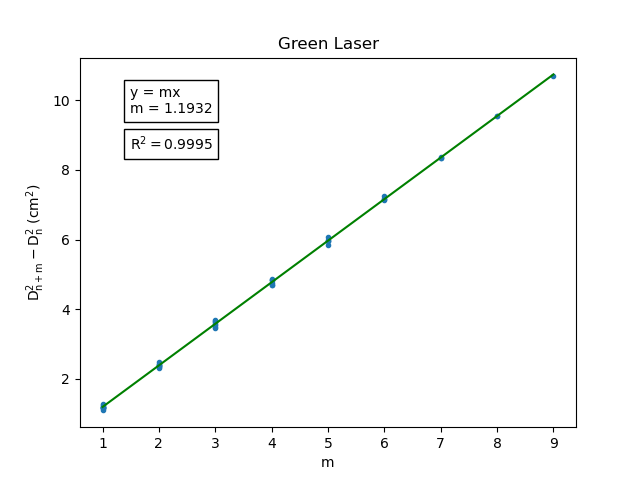
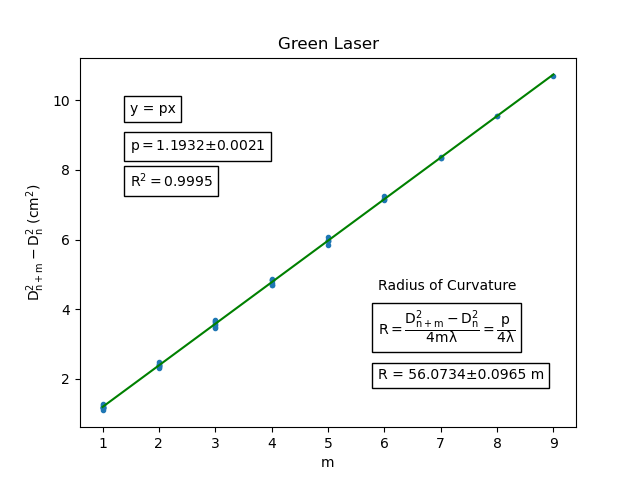
Reform the Green Laser Graph
- Added Error to the parameter
- Added Radius of Curvature

Changed region(s): [[0.5625, 0.5625, 0.875, 0.8125], [0.1875, 0.1562, 0.4375, 0.4375]]

diff --git a/PHY 221/Newton's Rings/NR Green Laser Graph.py b/PHY 221/Newton's Rings/NR Green Laser Graph.py
@@ -1,9 +1,15 @@
 import numpy as np 
 import matplotlib.pyplot as plt 
 from scipy.optimize import curve_fit
+from uncertainties import ufloat
+
+lambda_SL = 589*1E-9        # Sodium Lamp Wavelength
+lambda_GL = 532*1E-9        # Green Laser Wavelength
+
+filename = "Green Laser"
 
 # Extract Data
-data_file = np.loadtxt("Green Laser Data.csv", delimiter = ",", skiprows = 1)
+data_file = np.loadtxt(f"{filename} Data.csv", delimiter = ",", skiprows = 1)
 
 # Load the data into variables
 order = data_file[:, 0]
@@ -37,8 +43,8 @@ x, y = (list(t) for t in zip(*sorted(zip(x, y))))
 
 # --- START CURVE_FIT AND PLOTTING ---
 
-def linear(x, m):
-    return m*x
+def linear(x, p):
+    return p*x
 
 # Set variables for curve_fit
 f = linear
@@ -55,16 +61,28 @@ r_squared = 1 - (ss_res / ss_tot)
 
 
 # Setting variables for plot based on curve_fit parameters
-m = popt[0]
+p = popt[0]
 xval = np.linspace(x[0], x[-1], 100)
-yval = f(xval, m)
+yval = f(xval, p)
 
 r_squared_text = "{:.4f}".format(r_squared)
-m_text = "{:.4f}".format(m)
+p_text = "{:.4f}".format(p)
 
-print(f"m = {m} = {m_text}")
+print(f"p = {p} = {p_text}")
 print(f"R^2 = {r_squared} = {r_squared_text}")
 
+# Standard Deviation Error in Fitted Parameter
+parameter_err = np.sqrt(np.diag(pcov))
+p_error = parameter_err[0]
+p_error_text = "{:.4f}".format(p_error)
+print(f"p_error = {p_error} = {p_error_text}")
+
+p = ufloat(p, p_error)
+R = p / (4 * lambda_GL * 1E4)
+
+print("R = {:.3uP}".format(R))
+
+R_text = "{:.3uP}".format(R)
 
 # The Plots
 plt.plot(x, y, ".")
@@ -72,14 +90,22 @@ plt.plot(xval, yval, "g-")
 
 plt.xlabel("m")
 plt.ylabel(r"$\sf D_{n+m}^2 - D_{n}^2\ (cm^2)$")
-plt.title("Green Laser")
+plt.title(f"{filename}")
 
 bbox_props = dict(boxstyle = "square, pad = 0.4", fc = "white", ec = "black")
 
-plt.annotate(f"y = mx\nm = {m_text}", xy = (0.1, 0.85), 
+plt.annotate(f"y = px", xy = (0.1, 0.85), 
+             xycoords = "axes fraction", bbox = bbox_props)
+plt.annotate(r'$\sf p = ${}$\pm${}'.format(p_text, p_error_text), xy = (0.1, 0.75), 
              xycoords = "axes fraction", bbox = bbox_props)
 plt.annotate(r'$\sf R^2 = ${}'.format(r_squared_text),
-             xy = (0.1, 0.75), xycoords = "axes fraction", bbox = bbox_props)
+             xy = (0.1, 0.65), xycoords = "axes fraction", bbox = bbox_props)
 
-plt.show()
-#plt.savefig("NR Green Laser Graph.png") 
+plt.annotate("Radius of Curvature", xy = (0.6, 0.37), xycoords = "axes fraction")
+plt.annotate(r'$\sf R = \dfrac{D_{n+m}^2-D_{n}^2}{4m\lambda} = \dfrac{p}{4\lambda}$', 
+             xy = (0.6, 0.25), xycoords = "axes fraction", bbox = bbox_props)
+plt.annotate(f"R = {R_text} m", xy = (0.6, 0.13), xycoords = "axes fraction", 
+             bbox = bbox_props)
+
+#plt.show()
+plt.savefig(f"NR {filename} Graph.png") 
